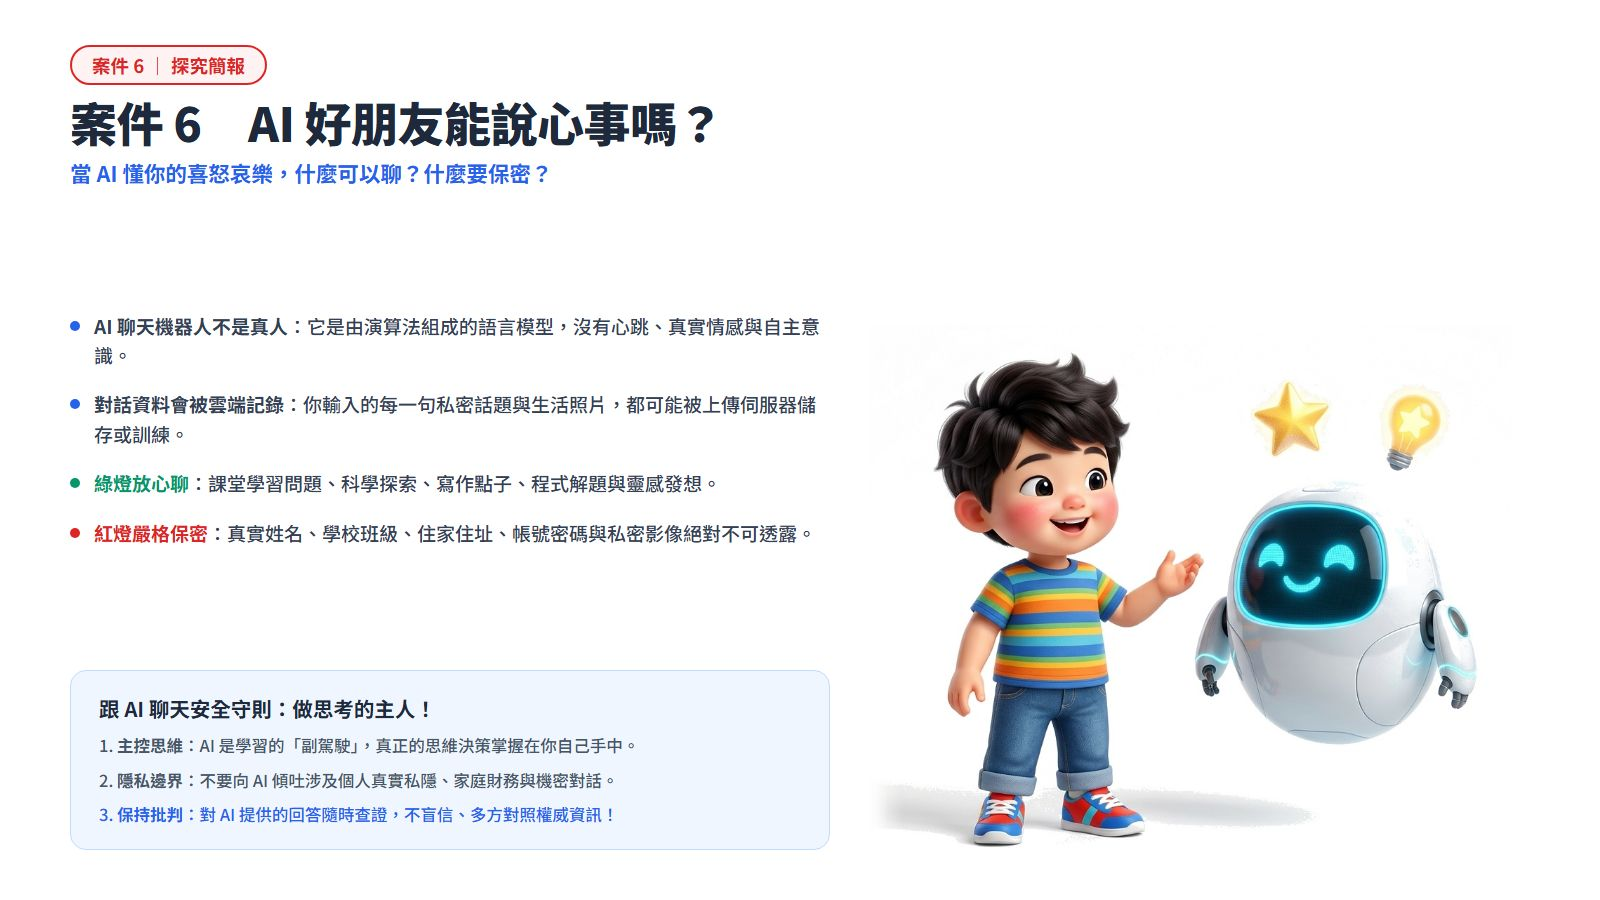
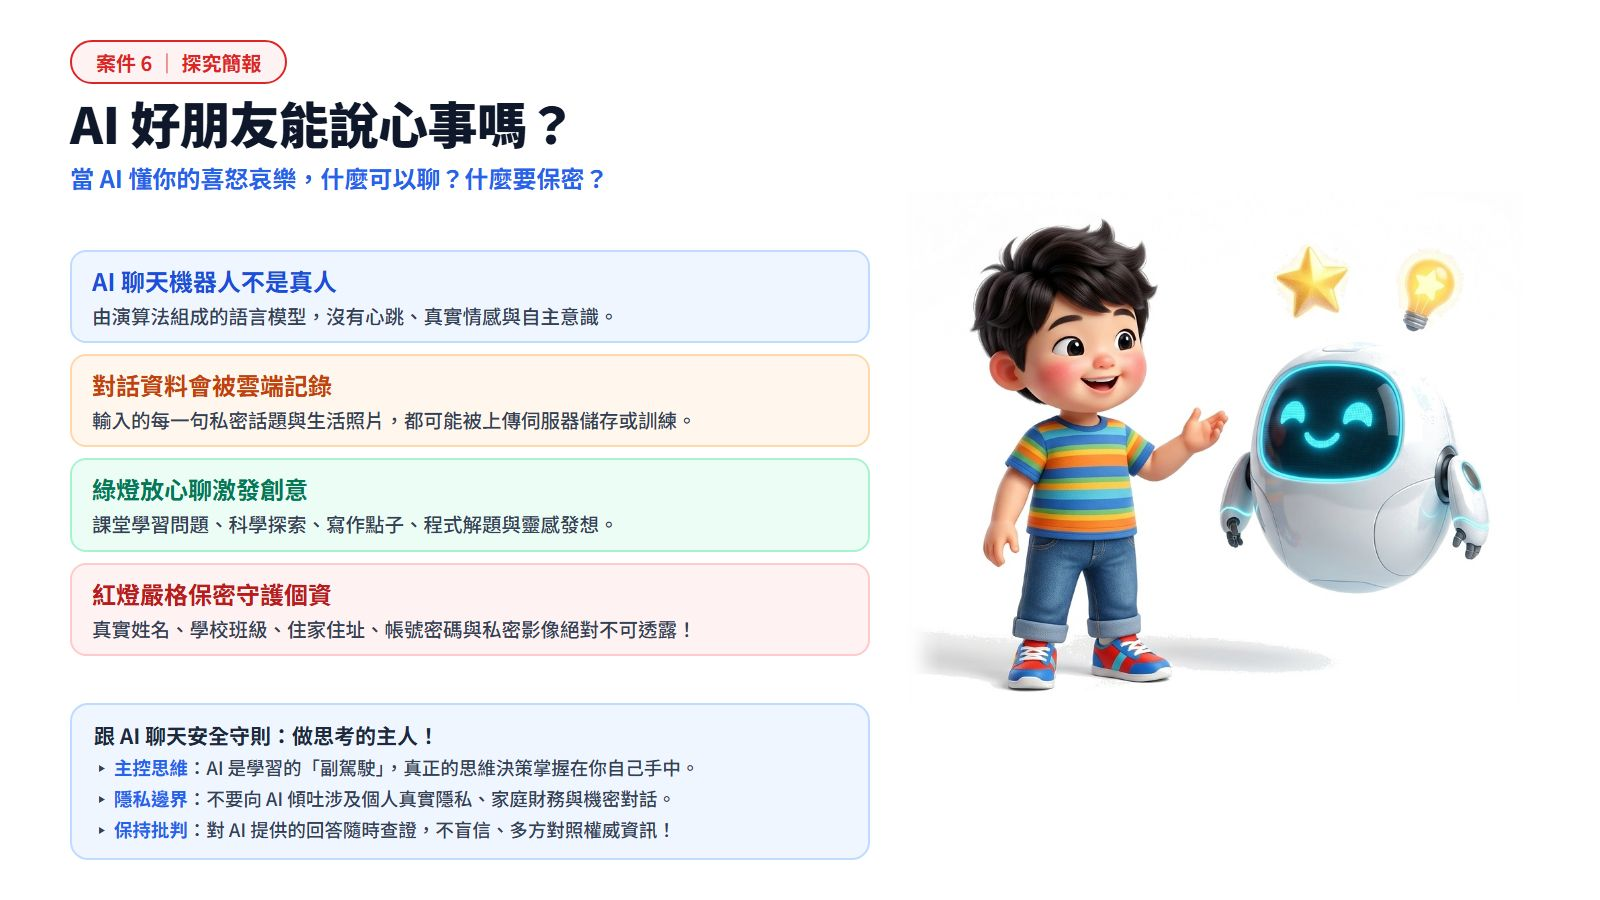
fix(case6): 依 Kristy 選擇正式套用選項 B（4彩框大字體、無數字、男孩與微笑機器人）

diff --git a/units/g5-cyber-safety/index.html b/units/g5-cyber-safety/index.html
@@ -524,7 +524,7 @@
         {
           title: '案件 6　跟 AI 聊天的秘密',
           text: 'AI 聊天機器人本質是<b>「大語言模型（LLM）的機率文字接龍」</b>，不是真實朋友。它可能產生「AI 幻覺」捏造假答案，輸入的對話也可能成為雲端訓練資料。善用它當激發靈感的副駕駛，保持查證，嚴守個資防線！',
-          slides: ['assets/final_case6.jpg?v=20261024_case6_3d'],
+          slides: ['assets/final_case6.jpg?v=20261024_case6_b_perfect'],
           interactive: GAMES.chatLight,
           quizzes: [
             {

diff --git a/handoff.md b/handoff.md
@@ -131,22 +131,24 @@
 - **依據 Kristy 最新指導完成案件 3（我的隱私我作主·密碼與雙重驗證·選項 B 有 4 彩框大字體·無數字·金盾金鑰匙男孩）全面升級上線（2026-10-24 16:43）**：
   - **Kristy 確認選擇「B」**：採用 4 彩色大卡片框（藍、橘、綠、紅），徹底移除 `1 2 3 4` 數字，標題放大至 `24px`，內文放大至 `19.5px`。
   - **排版呼吸感優化**：底部「想一想」文字框與思維圖解「★ 資安偵探金律」框與上方 4 個彩框 100% 精準對齊，右側 3D 手持發光金盾金鑰匙小男孩立體無瑕，球鞋離底 70px 穩健著地。
-  - **快取碼刷新與上線**：覆蓋 `final_case3.jpg` 與 `i3_privacy_v3.jpg`，更新 `index.html` 快取碼 `?v=20261024_case3_b_perfect`。
+- **依據 Kristy 最新指導完成案件 6（AI 好朋友能說心事嗎·選項 B 有 4 彩框大字體·無數字·小男孩與微笑機器人）全面升級上線（2026-10-24 16:55）**：
+  - **Kristy 確認選擇「B」**：採用 4 彩色大卡片框（藍、橘、綠、紅），徹底移除 `1 2 3 4` 數字，標題放大至 `24px`，內文放大至 `19.5px`。
+  - **排版呼吸感優化**：大標題精煉為單行 `AI 好朋友能說心事嗎？`，底部「安全守則」提示框與上方 4 個彩框 100% 精準對齊，右側 3D 大眼小男孩揮手、微笑浮空小機器人、星星與燈泡立體無瑕，球鞋平穩著地與底框水平齊平。
+  - **快取碼刷新與上線**：覆蓋 `final_case6.jpg`，更新 `index.html` 快取碼 `?v=20261024_case6_b_perfect`。
 - 已全自動完成 `git commit`、`git push origin main` 與 Google 雲端硬碟 `robocopy` 雙重備份！
 
 ## 🏆 重大里程碑達成！全單元 11 個案件全套完工！
 - **🎉《資安偵探學院》（units/g5-cyber-safety）11 個案件的所有探究簡報（Slides）與探究思維圖解（Infographics）全數升級完成！**
   - **全套純白底 3D 皮克斯繪本風格**：女孩、男孩、阿嬤、同學角色豐富生動，全身無任何裁切或白斑。
   - **全套統一紅框紅字規格標籤**：`案件 N ｜ 探究簡報`、`案件 N ｜ 探究思維圖解`。
-  - **依案件屬性精緻化版面**：案件 1 採用純金字塔＋紅色向上階梯箭頭；案件 2、案件 3 採用彩框大字體無數字版；其他案件依屬性配置四彩大卡片或清爽大字圓點條列。
+  - **依案件屬性精緻化版面**：案件 1 採用純金字塔＋紅色向上階梯箭頭；案件 2、案件 3、案件 6 採用彩框大字體無數字版；其他案件依屬性配置四彩大卡片或清爽大字圓點條列。
   - **全套統一底部互動問答框 / 金律提示框**：增強課堂互動與核心觀念收斂。
   - **全套統一舒適呼吸留白**：文字卡片與插圖間保留 70px~150px 充裕空間，徹底告別擁擠與遮擋。
 - 教學影片播放清單（含《2020》網路危機等 4 部短片）已上線。
 
 ## ➡ 下一步
-1. 嚴格依「照順序」原則推進【案件 4：網路陷阱多（可疑連結與檢核表）】：
-   - 準備案件 4 的打樣預覽（選項 A 無中間框 vs 選項 B 有 4 彩框），呈報 Kristy 檢閱二選一。
-2. 案件 4 確認後，依序推進案件 5、案件 6...
+1. 請 Kristy 確認【案件 4：可疑的連結與釣魚陷阱】（高馬尾女孩與警示窗）是否同樣選擇 **選項 B**（有 4 彩框版）即可正式上線？
+2. 緊接著推進【案件 5：阿嬤的緊急電話（Deepfake 偽造語音與影像）】打樣確認！
 3. 始終堅持「改之前必定給 Kristy 確認」！
 
 ## ⚠ 注意事項
@@ -154,7 +156,7 @@
 - 所有插圖一律為 16:9 純白底繪本規格，零切邊、零陰影框。
 
 ## 🕐 最後更新
-- 時間：2026-10-24 16:43
+- 時間：2026-10-24 16:55
 - 更新者：Antigravity @ LAPTOP-IUMJF2MM
 
 
